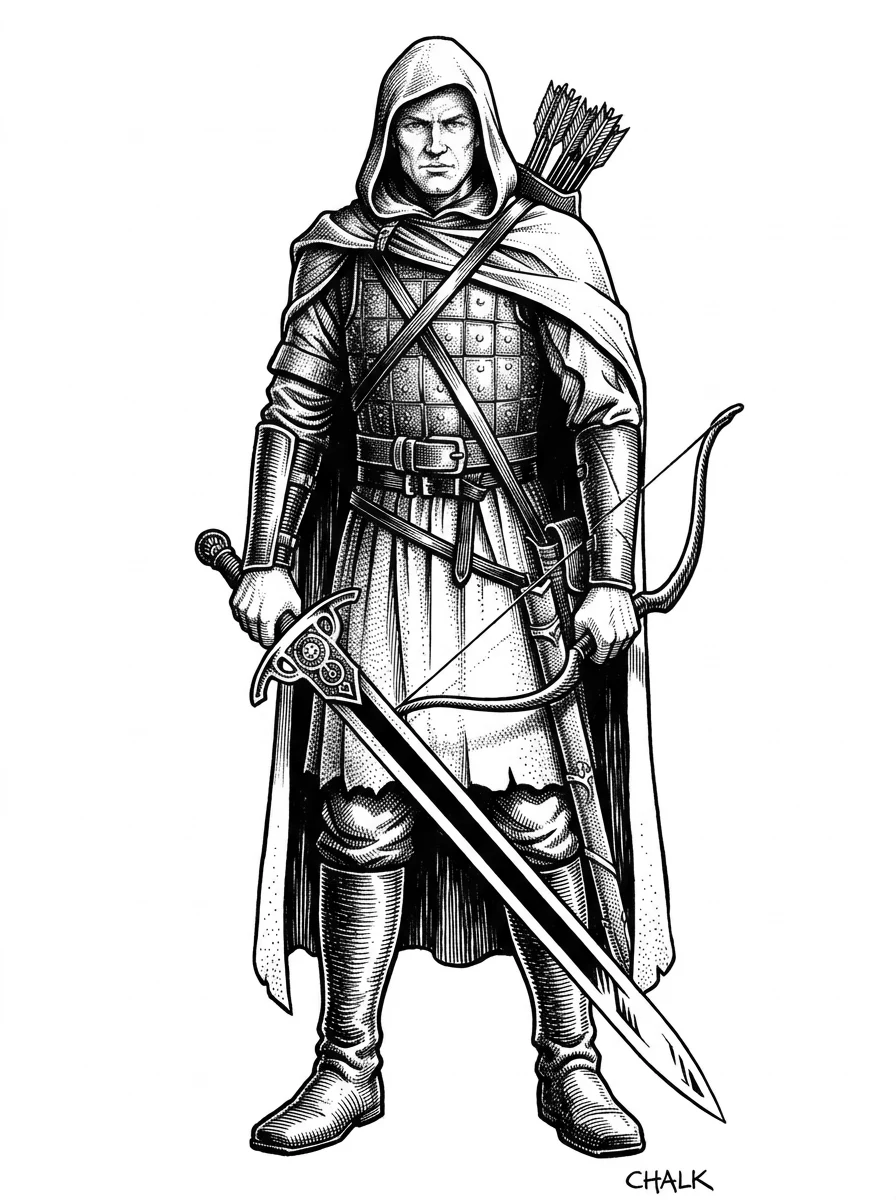
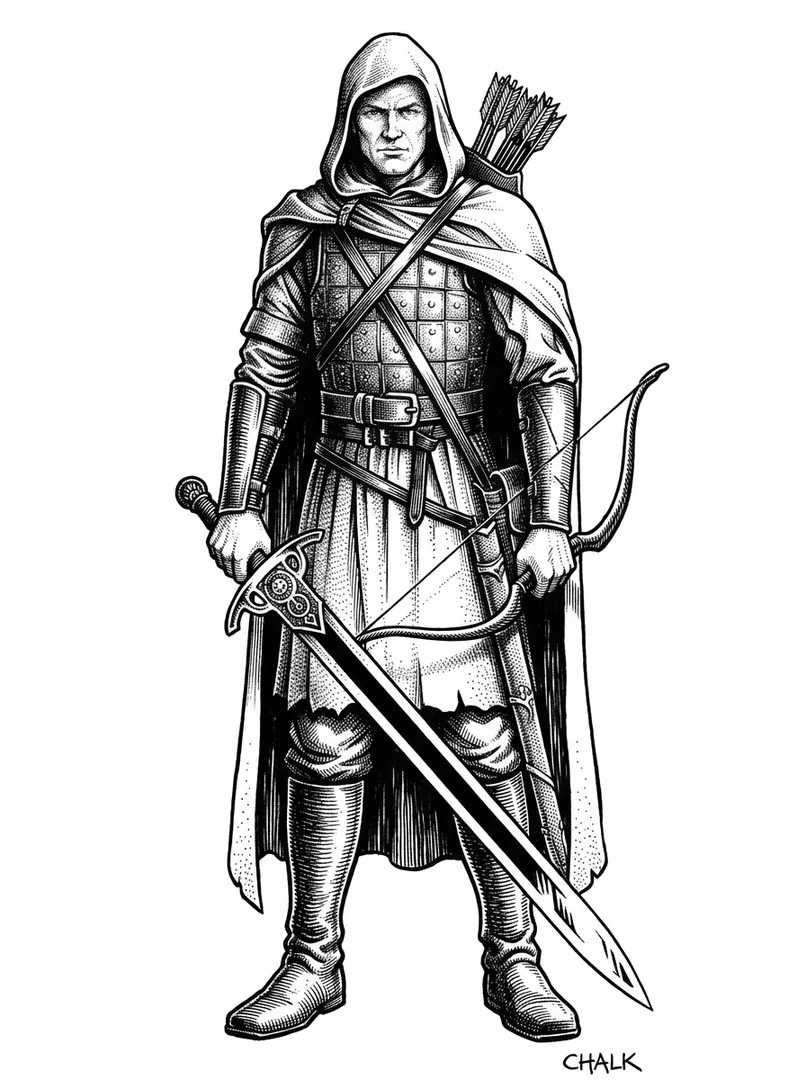
Title page: Lone Wolf before the burning Kai monastery
The title page's picture widens to its box: the owner's burning monastery
(assets/hero/monastery.webp) stands faintly behind him on the left, and he
stands right of the middle, inked lighter, his legs dissolving into the
ground, the monastery kept out of his silhouette (bare paper inside the bow
counts as background). The drawing is shrunk to 806x1080, enough for the
iPad; the unused original JPG leaves the folder (it is in 71aaffc).

diff --git a/plates.js b/plates.js
@@ -202,9 +202,21 @@ export function newWound() {
 /* Lone Wolf's likeness (title page, Kai panel), from the owner's ink drawing of him (crop: [x, y, w, h]),
    restyled after the HD character sheet: the paper keyed out, the ink made dense, a soft wash pooled
    in the shadows, and the edges broken up as a dry brush leaves them, solid out to `fade` of the way
-   from the middle. Made at load; never stored. */
-export function portraitFromArt(img, crop, fade = 0.5) {
-  const [cx, cy, W, H] = crop, k = Math.min(2, 1600 / Math.max(W, H)), w = Math.round(W * k), h = Math.round(H * k);
+   from the middle. `wide` (width over height) widens the picture to that shape, more of the drawing's
+   paper either side of him, with him standing at `at` of the way across. `back`, a drawing, then stands
+   faintly behind him in place of the smudge. `weight` below 1 inks him lighter, the wash thinner. On a wide
+   picture the faded edge is squarer, so the sides fade only near them. Made at load; never stored. */
+export function portraitFromArt(img, crop, fade = 0.5, { wide = 0, at = 0.5, back = null, weight = 1 } = {}) {
+  if (wide && crop[3] * wide > crop[2]) {
+    // the wider paper: as much of the drawing as there is, on its own paper colour where it runs out
+    const [cx, cy, W, H] = crop, Wd = Math.round(H * wide), pc = Ink.canvas(Wd, H), px = pc.getContext('2d', { willReadFrequently: true });
+    px.drawImage(img, 0, 0, 4, 4, 0, 0, 1, 1);
+    const [r, g, b] = px.getImageData(0, 0, 1, 1).data;
+    px.fillStyle = `rgb(${r},${g},${b})`; px.fillRect(0, 0, Wd, H);
+    px.drawImage(img, cx + W / 2 - Wd * at, cy, Wd, H, 0, 0, Wd, H);
+    img = pc; crop = [0, 0, Wd, H];
+  }
+  const [cx, cy, W, H] = crop, k = Math.min(2, 1100 / Math.max(W, H)), w = Math.round(W * k), h = Math.round(H * k);
   const c = Ink.canvas(w, h), x = c.getContext('2d', { willReadFrequently: true });
   x.imageSmoothingQuality = 'high';
   const lumOf = (d) => { const l = new Float32Array(d.length / 4); for (let i = 0; i < l.length; i++) l[i] = 0.3 * d[i * 4] + 0.59 * d[i * 4 + 1] + 0.11 * d[i * 4 + 2]; return l; };
@@ -228,14 +240,16 @@ export function portraitFromArt(img, crop, fade = 0.5) {
   const cell = w / 9, edges = new Float32Array(w * h), inkA = new Float32Array(w * h);
   for (let y = 0, i = 0; y < h; y++) {
     for (let X = 0; X < w; X++, i++) {
-      const a = Math.pow(Math.max(0, Math.min(1, (paper - lum[i]) / (paper - ink))), 0.5);
-      const wa = 0.85 * Math.pow(Math.max(0, Math.min(1, (wPaper - wash[i]) / (wPaper - wInk))), 0.75);
-      const u = (X / w) * 2 - 1, v = (y / h) * 2 - 1, r = Math.sqrt(u * u + v * v);
+      const a = Math.pow(Math.max(0, Math.min(1, ((paper - lum[i]) / (paper - ink) - 0.04) / 0.96)), 0.5 + (1 - weight) * 0.5);  // a little off the paper's grain
+      const wa = 0.85 * weight * Math.pow(Math.max(0, Math.min(1, (wPaper - wash[i]) / (wPaper - wInk))), 0.75);
+      const u = (X / w) * 2 - 1, v = (y / h) * 2 - 1, r = wide ? Math.pow(Math.abs(u) ** 3 + Math.abs(v) ** 3, 1 / 3) : Math.sqrt(u * u + v * v);
       const n = vnoise(X / cell, y / cell) * 0.65 + vnoise(X / cell * 3.1, y / cell * 3.1) * 0.35 - 0.5;
       const m = Math.max(0, Math.min(1, (1 - r + 0.45 * n) / (1 - fade)));
       const edge = m >= 1 ? 1 : Math.max(0, Math.min(1, m * 1.6 - hash(X, y) * 0.6));
       edges[i] = edge; inkA[i] = a;
-      const al = 1 - (1 - a) * (1 - wa);
+      // on a wide picture his legs dissolve into the ground before its edge does, raggedly
+      const legs = wide ? Math.max(0, Math.min(1, (1 - y / h + 0.1 * n) / 0.26)) : 1;
+      const al = (1 - (1 - a) * (1 - wa)) * (0.55 + 0.45 * weight) * legs;
       // the wash a shade warmer than the ink
       const t = a / Math.max(1e-3, a + wa);
       p[i * 4] = 38 + (1 - t) * 22; p[i * 4 + 1] = 28 + (1 - t) * 14; p[i * 4 + 2] = 18 + (1 - t) * 6; p[i * 4 + 3] = Math.round(255 * al);
@@ -244,10 +258,14 @@ export function portraitFromArt(img, crop, fade = 0.5) {
   x.putImageData(d, 0, 0);
   // behind him, an ink smudge and sweeping brush strokes, as the HD sheet has; then the ragged edge over all
   const sm = Ink.canvas(w, h), smx = sm.getContext('2d', { willReadFrequently: true });
-  inkSmudge(smx, w, h, hash);
+  if (back) backdrop(smx, w, h, back); else inkSmudge(smx, w, h, hash);
   const sd = smx.getImageData(0, 0, w, h);
   const body = silhouette(inkA, w, h);
-  for (let y = 0, i = 0; y < h; y++) for (let X = 0; X < w; X++, i++) sd.data[i * 4 + 3] *= 1 - body(X, y);
+  // where his legs fade, what stands behind them shows again
+  for (let y = 0, i = 0; y < h; y++) {
+    const legs = wide ? Math.max(0, Math.min(1, (1 - y / h) / 0.26)) : 1;
+    for (let X = 0; X < w; X++, i++) sd.data[i * 4 + 3] *= 1 - body(X, y) * legs;
+  }
   smx.putImageData(sd, 0, 0);
   x.globalCompositeOperation = 'destination-over'; x.drawImage(sm, 0, 0); x.globalCompositeOperation = 'source-over';
   const all = x.getImageData(0, 0, w, h), q = all.data;
@@ -259,8 +277,12 @@ export function portraitFromArt(img, crop, fade = 0.5) {
 /* Where he stands, solid: on a coarse grid, his ink thickened until the outline closes, everything the
    paper outside cannot reach from the picture's border filled in, then softened. Returns 0-1 at (x, y). */
 function silhouette(inkA, w, h) {
-  const g = 4, gw = Math.ceil(w / g), gh = Math.ceil(h / g), ink = new Uint8Array(gw * gh);
-  for (let y = 0; y < h; y++) for (let x = 0; x < w; x++) if (inkA[y * w + x] > 0.25) ink[((y / g) | 0) * gw + ((x / g) | 0)] = 1;
+  const g = 4, gw = Math.ceil(w / g), gh = Math.ceil(h / g), ink = new Uint8Array(gw * gh), dens = new Float32Array(gw * gh);
+  for (let y = 0; y < h; y++) for (let x = 0; x < w; x++) {
+    const k = ((y / g) | 0) * gw + ((x / g) | 0);
+    dens[k] += inkA[y * w + x] / (g * g);
+    if (inkA[y * w + x] > 0.25) ink[k] = 1;
+  }
   const grow = (src, r, v) => {  // dilate the cells equal to v by r
     const out = Uint8Array.from(src);
     for (let y = 0; y < gh; y++) for (let x = 0; x < gw; x++) {
@@ -277,6 +299,32 @@ function silhouette(inkA, w, h) {
     const k = stack.pop(), x = k % gw, y = (k / gw) | 0;
     if (x > 0) seed(x - 1, y); if (x < gw - 1) seed(x + 1, y); if (y > 0) seed(x, y - 1); if (y < gh - 1) seed(x, y + 1);
   }
+  // a hole of bare paper is the background seen through him (inside the bow), not part of him: his
+  // clothes, however light, carry stippling
+  const seen = new Uint8Array(gw * gh);
+  let bare = [];
+  for (let k0 = 0; k0 < gw * gh; k0++) {
+    if (closed[k0] || outside[k0] || seen[k0]) continue;
+    const hole = [k0], todo = [k0]; seen[k0] = 1;
+    while (todo.length) {
+      const k = todo.pop(), x = k % gw, y = (k / gw) | 0;
+      for (const n of [x > 0 ? k - 1 : -1, x < gw - 1 ? k + 1 : -1, y > 0 ? k - gw : -1, y < gh - 1 ? k + gw : -1]) {
+        if (n >= 0 && !closed[n] && !seen[n]) { seen[n] = 1; hole.push(n); todo.push(n); }
+      }
+    }
+    if (hole.reduce((t, k) => t + dens[k], 0) / hole.length < 0.03) for (const k of hole) { outside[k] = 1; bare.push(k); }
+  }
+  // the thickening closed most of such a hole: win back the bare paper round it, up to the lines
+  for (let step = 0; step < 4; step++) {
+    const next = [];
+    for (const k of bare) {
+      const x = k % gw, y = (k / gw) | 0;
+      for (const n of [x > 0 ? k - 1 : -1, x < gw - 1 ? k + 1 : -1, y > 0 ? k - gw : -1, y < gh - 1 ? k + gw : -1]) {
+        if (n >= 0 && !outside[n] && !ink[n] && dens[n] < 0.02) { outside[n] = 1; next.push(n); }
+      }
+    }
+    bare = next;
+  }
   const inside = grow(outside, 2, 1).map((o) => 1 - o);  // give back most of the thickening
   const soft = new Float32Array(gw * gh);
   for (let y = 0; y < gh; y++) for (let x = 0; x < gw; x++) {
@@ -285,6 +333,44 @@ function silhouette(inkA, w, h) {
     soft[y * gw + x] = t / n;
   }
   return (x, y) => soft[Math.min(gh - 1, (y / g) | 0) * gw + Math.min(gw - 1, (x / g) | 0)];
+}
+
+/* A drawing behind him (the burning monastery on the title page), its paper keyed out, its ink faint
+   and warmer than his, as far off things are drawn; it fills the height, set at the left. */
+function backdrop(x, w, h, img) {
+  const bw = Math.round(img.width * h / img.height), c = Ink.canvas(bw, h), cx = c.getContext('2d', { willReadFrequently: true });
+  cx.imageSmoothingQuality = 'high'; cx.drawImage(img, 0, 0, bw, h);
+  const d = cx.getImageData(0, 0, bw, h), p = d.data, n = p.length / 4, lum = new Float32Array(n);
+  for (let i = 0; i < n; i++) lum[i] = 0.3 * p[i * 4] + 0.59 * p[i * 4 + 1] + 0.11 * p[i * 4 + 2];
+  const sorted = Float32Array.from(lum).sort(), ink = sorted[Math.floor(0.03 * (n - 1))], paper = sorted[Math.floor(0.7 * (n - 1))];
+  for (let i = 0; i < n; i++) {
+    const a = Math.max(0, Math.min(1, ((paper - lum[i]) / (paper - ink) - 0.04) / 0.96));
+    p[i * 4] = 72; p[i * 4 + 1] = 52; p[i * 4 + 2] = 34; p[i * 4 + 3] = Math.round(255 * 0.55 * Math.pow(a, 0.8));
+  }
+  cx.putImageData(d, 0, 0);
+  x.drawImage(c, -0.04 * w, 0);
+}
+
+/* One dry-brush stroke along path(t), t 0-1: many fine hairs side by side across its breadth, some
+   missing, each starting and lifting off at its own place, the outer ones fainter and shorter. */
+function brush(x, path, bw, alpha, seed, hash) {
+  const n = 46, at = (t, o) => {
+    const [px, py] = path(t), [qx, qy] = path(Math.min(1, t + 0.002)), [rx, ry] = path(Math.max(0, t - 0.002));
+    const dx = qx - rx, dy = qy - ry, l = Math.hypot(dx, dy) || 1;
+    return [px - dy / l * o, py + dx / l * o];
+  };
+  x.lineCap = 'round';
+  for (let j = 0; j < n; j++) {
+    const r = hash(seed * 97 + j, 7);
+    if (r < 0.22) continue;  // a gap where the brush ran dry
+    const off = (j / (n - 1) - 0.5) * bw, edgeIn = 1 - Math.abs(j / (n - 1) - 0.5) * 2;
+    const t0 = hash(j, seed + 3) * 0.18 + (1 - edgeIn) * 0.12, t1 = 1 - hash(seed, j + 5) * 0.25 - (1 - edgeIn) * 0.15;
+    x.strokeStyle = `rgba(48,33,20,${alpha * (0.35 + 0.65 * r) * (0.5 + 0.5 * edgeIn)})`;
+    x.lineWidth = bw / n * (1 + hash(j, seed) * 1.6);
+    x.beginPath();
+    for (let k = 0; k <= 40; k++) { const [px, py] = at(t0 + (t1 - t0) * k / 40, off); k ? x.lineTo(px, py) : x.moveTo(px, py); }
+    x.stroke();
+  }
 }
 
 /* The smudge: a few soft blots behind the head and shoulders, and broad strokes laid as a dry brush
@@ -303,30 +389,12 @@ function inkSmudge(x, w, h, hash) {
     [[-0.05, 0.68], [0.45, 0.46], [0.95, 0.56], 0.12, 0.55],
     [[0.15, 0.12], [0.6, 0.02], [1.05, 0.1], 0.08, 0.4],
   ];
-  strokes.forEach(([a, b, e, breadth, alpha], si) => {
-    const n = 46, bw = breadth * S, at = (t, o) => {
-      const u = 1 - t, px = (u * u * a[0] + 2 * u * t * b[0] + t * t * e[0]) * w, py = (u * u * a[1] + 2 * u * t * b[1] + t * t * e[1]) * h;
-      const dx = 2 * u * (b[0] - a[0]) * w + 2 * t * (e[0] - b[0]) * w, dy = 2 * u * (b[1] - a[1]) * h + 2 * t * (e[1] - b[1]) * h, l = Math.hypot(dx, dy) || 1;
-      return [px - dy / l * o, py + dx / l * o];
-    };
-    x.lineCap = 'round';
-    for (let j = 0; j < n; j++) {
-      const r = hash(si * 97 + j, 7);
-      if (r < 0.22) continue;  // a gap where the brush ran dry
-      const off = (j / (n - 1) - 0.5) * bw, edgeIn = 1 - Math.abs(j / (n - 1) - 0.5) * 2;
-      const t0 = hash(j, si + 3) * 0.18 + (1 - edgeIn) * 0.12, t1 = 1 - hash(si, j + 5) * 0.25 - (1 - edgeIn) * 0.15;
-      x.strokeStyle = `rgba(48,33,20,${alpha * (0.35 + 0.65 * r) * (0.5 + 0.5 * edgeIn)})`;
-      x.lineWidth = bw / n * (1 + hash(j, si) * 1.6);
-      x.beginPath();
-      for (let k = 0; k <= 40; k++) { const [px, py] = at(t0 + (t1 - t0) * k / 40, off); k ? x.lineTo(px, py) : x.moveTo(px, py); }
-      x.stroke();
-    }
-  });
+  const quad = ([a, b, e]) => (t) => { const u = 1 - t; return [(u * u * a[0] + 2 * u * t * b[0] + t * t * e[0]) * w, (u * u * a[1] + 2 * u * t * b[1] + t * t * e[1]) * h]; };
+  strokes.forEach((st, si) => brush(x, quad(st), st[3] * S, st[4], si, hash));
   // spatters thrown off the strokes
   for (let i = 0; i < 260; i++) {
-    const [a, b, e, breadth] = strokes[i % strokes.length], t = hash(i, 11), u = 1 - t;
-    const px = (u * u * a[0] + 2 * u * t * b[0] + t * t * e[0]) * w + (hash(i, 13) - 0.5) * breadth * S * 2.4;
-    const py = (u * u * a[1] + 2 * u * t * b[1] + t * t * e[1]) * h + (hash(i, 17) - 0.5) * breadth * S * 2.4;
+    const st = strokes[i % strokes.length], breadth = st[3], [sx, sy] = quad(st)(hash(i, 11));
+    const px = sx + (hash(i, 13) - 0.5) * breadth * S * 2.4, py = sy + (hash(i, 17) - 0.5) * breadth * S * 2.4;
     x.fillStyle = `rgba(48,33,20,${0.15 + hash(i, 19) * 0.35})`;
     x.beginPath(); x.arc(px, py, S * (0.0015 + hash(i, 23) * 0.005), 0, Math.PI * 2); x.fill();
   }

diff --git a/main.js b/main.js
@@ -1252,16 +1252,20 @@ fetch(`assets/icons/${UG.foeEmblem}.svg`).then((r) => r.text()).then((t) => {
   if (d) setEmblem(d);
 }).catch(() => {});
 
-const HERO = { figure: [185, 28, 570, 790], bust: [235, 25, 420, 360] }; // crops of the 896x1200 drawing (the figure: hood to knee)
+const HERO = { figure: [185, 28, 570, 790], bust: [235, 25, 420, 360] }; // crops in the 896x1200 drawing's units (the figure: hood to knee); the file is smaller
 /* optional illustrations dropped into art/ */
 const portraitDone = () => { if (mode === 'title') renderLeft(); else if (mode === 'story' && panel === 'kai') renderRight(); };
 fetch('art/manifest.json').then((r) => r.json()).then((m) => {
   for (const kind in m.enemies || {}) { const im = new Image(); im.onload = () => setArt(kind, im); im.src = 'art/' + m.enemies[kind]; }
 }).catch(() => {});
 /* Lone Wolf himself: the owner's drawing, hood to knee for the title page, head to belt for the Kai panel */
-fetch('assets/hero/lone-wolf.webp').then((r) => r.blob()).then(createImageBitmap).then((hero) => { // a fetch, so the offline copy takes it
-  frontisURL = portraitFromArt(hero, HERO.figure, 0.92).toDataURL();
-  portraitURL = portraitFromArt(hero, HERO.bust, 0.6).toDataURL();
+// fetches of plain paths, so the offline copy takes them
+const bitmap = (r) => r.blob().then(createImageBitmap);
+Promise.all([fetch('assets/hero/lone-wolf.webp').then(bitmap), fetch('assets/hero/monastery.webp').then(bitmap)]).then(([hero, burning]) => {
+  const at = (crop) => crop.map((n) => n * hero.width / 896);
+  // the title page: him, right of the middle, the Kai monastery burning behind him on the left
+  frontisURL = portraitFromArt(hero, at(HERO.figure), 0.8, { wide: 1.3, at: 0.7, back: burning, weight: 0.6 }).toDataURL();
+  portraitURL = portraitFromArt(hero, at(HERO.bust), 0.6).toDataURL();
   portraitDone();
 }).catch(() => {});
 

diff --git a/docs/reference/interface.md b/docs/reference/interface.md
@@ -45,7 +45,7 @@ ember on hover and focus; disabled it is greyed.
 
 | `mode` | Left page | Right page |
 |---|---|---|
-| `title` | `titleLeftHTML`: the mark (LONE, wolf's head, WOLF), his figure, hood to knee, as frontispiece (`frontisURL`, `HERO.figure`), and the series as three rows of numeral medallions in scrollwork (Kai I-V, Magnakai VI-XII, Grand Master XIII-XX; `SHELVES`), lit where the open adventure has a save for that book, dim where not downloaded (`SERIES_TITLES`); a numeral begins or continues that book in the open adventure | `titleRightHTML`, one of two views on the bronze-framed plaques (a medallion standing out at the left). `adventuresHTML`: "Your adventures", one plaque per adventure (its numeral, the book last open, rank and section, or "Fell at"; an adventure given a name shows the name above, and the book in the line under it); the plaque resumes it (a fallen one opens its books instead), with "books | rename | backup | restore | forget" under it: "rename" (a box, Enter keeps the name, an empty one clears it, Escape leaves it), "backup", "restore" (asks before replacing it; see Storage in architecture.md) and "forget" (asks first); last, "A new adventure", with "restore" under it (a backup file comes back as a new adventure). `shelfHTML` (`shelf` true): that adventure's books, one series at a time behind the tabs "The Kai | The Magnakai | The Grand Master" (`shelfSeries`; it opens on the series of the book last open, or of the one after the last finished), every book of the series in its place, dim and "not downloaded" when it is not imported; for each book continue (with the saved section) / the story so far / start over / new character, and "all adventures" in the heading, which carries the adventure's name or "Adventure II" |
+| `title` | `titleLeftHTML`: the mark (LONE, wolf's head, WOLF), his figure, hood to knee, as frontispiece (`frontisURL`, `HERO.figure`), widened to the box's 1.3:1 with him inked lighter (`weight` 0.6) at 0.7 of the way across, his legs dissolving into the ground, and the burning Kai monastery (`assets/hero/monastery.webp`, `backdrop()`) faint behind him on the left, kept out of his silhouette, and the series as three rows of numeral medallions in scrollwork (Kai I-V, Magnakai VI-XII, Grand Master XIII-XX; `SHELVES`), lit where the open adventure has a save for that book, dim where not downloaded (`SERIES_TITLES`); a numeral begins or continues that book in the open adventure | `titleRightHTML`, one of two views on the bronze-framed plaques (a medallion standing out at the left). `adventuresHTML`: "Your adventures", one plaque per adventure (its numeral, the book last open, rank and section, or "Fell at"; an adventure given a name shows the name above, and the book in the line under it); the plaque resumes it (a fallen one opens its books instead), with "books | rename | backup | restore | forget" under it: "rename" (a box, Enter keeps the name, an empty one clears it, Escape leaves it), "backup", "restore" (asks before replacing it; see Storage in architecture.md) and "forget" (asks first); last, "A new adventure", with "restore" under it (a backup file comes back as a new adventure). `shelfHTML` (`shelf` true): that adventure's books, one series at a time behind the tabs "The Kai | The Magnakai | The Grand Master" (`shelfSeries`; it opens on the series of the book last open, or of the one after the last finished), every book of the series in its place, dim and "not downloaded" when it is not imported; for each book continue (with the saved section) / the story so far / start over / new character, and "all adventures" in the heading, which carries the adventure's name or "Adventure II" |
 | `setup` (setting out: `SU`, before a new character's book; the save is cleared only on "Begin") | `setupLeftHTML`. Step `hero`: the two scores on Random Number medallions, touched to spin ("10 + 7 = 17" under each, 25 and 30 in the Grand Master series; a carried character's show his as bronze medallions), then a row of slots strung on an engraved rail (`suSlots`: a double rule in ink ending in a lozenge and scrolls, a small lozenge between slots), one per discipline to choose: an empty one is a socket cut into the page (a ticked double ring round a faint star), filling with the chosen as lit medallions (touch one to let it go), and a second row for Weaponmastery's (or Grand Weaponmastery's) weapons when asked. Step `kit`: the gold as a bronze medallion like the section number's ("?" until touched, then its face shuffles and settles on the total) (and the Monastery's gold with − / +), "The Kai give you" as `.finds`, the clothing worn, and a row of slots on the rail for "Take up to N". Under both: what is still missing, the Begin seal ("On to your equipment" where the book has a kit), "choose for me", "back to the books" | `setupRightHTML`: rows (`.suitem`), each a medallion with its icon, the name and what it does, touched to choose it or let it go; dimmed when the share is full. Rows sit on hairlines; the one pointed at gets a faint ink wash, the chosen a faint red one and a red name. The list (`.supage`) fades into the paper at an edge it can still scroll past (`fadeEdges` sets `.fade-t` / `.fade-b`), and keeps its scroll position when a choice redraws it. Step `hero`: the series' disciplines, then (Grand) Weaponmastery's weapons. Step `kit`: the book's choices (a count on the medallion for several), his weapons (kept or left behind), and Special Items carried or at the Monastery. The rules are `LW.HeroSetup` / `LW.KitSetup` (rules-engine.md) |
 | `story` | section text, illustration, arrival events (a by-hand reminder begins "By hand:"), "Found here" (`.finds`: each gift or find as a small medallion with its icon, "take it", "yours" once taken, or dimmed when the other of an `or` pair was taken, or the share of a "choose two"; a shop's wares read "buy it: N Gold Crowns" under "For sale" (", N more at most" for a ware limited in number); what a trader buys is under "He will buy", Arrows as "4 Arrows" when he has that many; a price payable in items shows "hand over ..." on its choice, and what is handed over is chosen under "Choose what you hand over"; touching one takes or buys it, or toasts why not), Random Number medallion, choices or an action medallion | the chosen panel |
 | `battle` | first paragraph of the section, then the fight's record line by line | the fight |

diff --git a/docs/adr/rulings.md b/docs/adr/rulings.md
@@ -37,7 +37,7 @@ row, not a decision by analogy.
 |---|---|---|---|
 | R11 | A section's single choice that was only a page reference reads "Continue". | spec 4.6; the importer | 2026-09-30 |
 | R12 | **The iPad (landscape and portrait) and the PC's window** are the layouts to fit and judge. Phones are not a target: no work, checks or tests for them. Narrow-window code already there may stay, but nothing is designed or fixed for it, and it may go when it gets in the way. | spec 1, 9 | 2026-10-12 |
-| R16 | **Lone Wolf's likeness is the owner's own drawing** (`assets/hero/lone-wolf.webp`), on the title page (hood to knee) and the Kai panel (head to belt), not Lone Wolf HD art. | `main.js` `HERO`; `assets/hero/README.txt` | 2026-10-21 |
+| R16 | **Lone Wolf's likeness is the owner's own drawing** (`assets/hero/lone-wolf.webp`), on the title page (hood to knee, right of the middle, the burning Kai monastery faint behind him, also the owner's) and the Kai panel (head to belt), not Lone Wolf HD art. | `main.js` `HERO`; `assets/hero/README.txt` | 2026-10-21 |
 
 ## Workflow
 

diff --git a/docs/reference/architecture.md b/docs/reference/architecture.md
@@ -28,7 +28,7 @@ art/manifest.json           optional pictures in art/: enemy sprites
 assets/icons/               discipline glyphs from game-icons.net (CC BY 3.0, credited in README.txt)
 assets/fonts/               the page's three fonts and fonts.css, from Google Fonts (SIL OFL, licences beside them)
 assets/app/                 the Home Screen icon (README.txt says how it was made)
-assets/hero/                lone-wolf.webp: Lone Wolf, the owner's own drawing (title page, Kai panel; ruling R16)
+assets/hero/                the owner's own pictures: Lone Wolf (title page, Kai panel), the burning monastery (title page); ruling R16
 assets/plates/              plates.json: pictures for enemies their book does not picture; free pictures,
                             mostly engravings from Wikimedia Commons (credited in README.txt)
   upscaled/<code>.json      the book's fight pictures with a 2x copy beside them (ill_upscale.py --fights), shown from it
